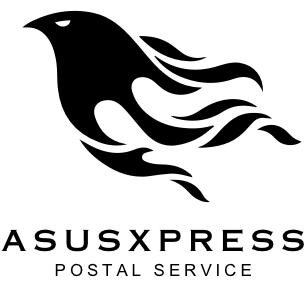
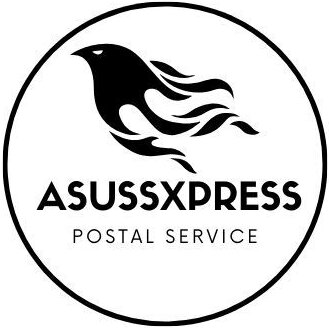
Changed Asus to Asuss and replaced images

diff --git a/resources/views/home.blade.php b/resources/views/home.blade.php
@@ -4,7 +4,7 @@
 <head>
     <!-- Meta Tag -->
     <meta charset="utf-8" />
-    <title>Welcome to AsusXpress</title>
+    <title>Welcome to AsussXpress</title>
     <meta name="description" content="" />
     <meta http-equiv="x-ua-compatible" content="ie=edge" />
     <meta name="viewport" content="width=device-width, initial-scale=1" />
@@ -88,7 +88,7 @@
                 </div>
                 <div class="contact-link">
                     <span class="d-block"> Email us:</span>
-                    <a href="mailto:support@AsusXpress.com"> support@AsusXpress.com</a>
+                    <a href="mailto:support@AsussXpress.com"> support@AsussXpress.com</a>
                 </div>
             </div>
             <div class="contact-box">
@@ -458,7 +458,7 @@
                             </div>
                             <div class="faq-text">
                                 <h6 class="title">Express Shipping</h6>
-                                <p>International Parcel and Document delivery from AsusXpress Express</p>
+                                <p>International Parcel and Document delivery from AsussXpress Express</p>
                             </div>
                         </div>
                     </div>
@@ -506,7 +506,7 @@
                                     <button class="accordion-button collapsed" type="button" data-bs-toggle="collapse"
                                         data-bs-target="#collapseThree" aria-expanded="false"
                                         aria-controls="collapseThree">
-                                        WHAT MODES AND SERVICES DOES AsusXpress PROVIDE?
+                                        WHAT MODES AND SERVICES DOES AsussXpress PROVIDE?
                                     </button>
                                 </h2>
                                 <div id="collapseThree" class="accordion-collapse collapse"
@@ -523,7 +523,7 @@
                                     <button class="accordion-button collapsed" type="button" data-bs-toggle="collapse"
                                         data-bs-target="#collapseFour" aria-expanded="false"
                                         aria-controls="collapseFour">
-                                        I AM A SMALL START-UP, CAN AsusXpress HELP ME?
+                                        I AM A SMALL START-UP, CAN AsussXpress HELP ME?
                                     </button>
                                 </h2>
                                 <div id="collapseFour" class="accordion-collapse collapse" aria-labelledby="headingFour"
@@ -545,7 +545,7 @@
                                 <div id="collapseFive" class="accordion-collapse collapse" aria-labelledby="headingFive"
                                     data-bs-parent="#accordionExample">
                                     <div class="accordion-body">
-                                        <strong>There are multiple ways in which AsusXpress clients can track a
+                                        <strong>There are multiple ways in which AsussXpress clients can track a
                                             shipment.
                                             1. Customers with a substantial amount of freight coming into their facility
                                             expect their logistics company to provide instant access to their product at
@@ -656,7 +656,7 @@
                             <a href="/"> <img src="assets/images/logo/logo.png" alt="Logo" /></a>
                         </div>
                         <p>
-                            AsusXpress is a global supplier of transport and logistics solutions. We have offices in more than 70
+                            AsussXpress is a global supplier of transport and logistics solutions. We have offices in more than 70
                             countries and an international network of partners and agents.
                         </p>
                         <div class="footer-contact-list d-flex align-items-center">
@@ -675,7 +675,7 @@
                                 </div>
                                 <div class="contact-link">
                                     <span class="sub-title"> Email</span>
-                                    <a href="mailto:support@AsusXpress.com"> support@AsusXpress.com</a>
+                                    <a href="mailto:support@AsussXpress.com"> support@AsussXpress.com</a>
                                 </div>
                             </div>
                         </div>
@@ -706,7 +706,7 @@
                         <div class="footer-copyright-area footer-copyright-three">
                             <div class="copyright-target">
                                 <p>
-                                    Copyright © 2023 <a href="/"> AsusXpress. </a> All Rights
+                                    Copyright © 2023 <a href="/"> AsussXpress. </a> All Rights
                                     Reserved.
                                 </p>
                             </div>

diff --git a/resources/views/about.blade.php b/resources/views/about.blade.php
@@ -37,7 +37,7 @@
                             <span class="sub-title active-shape"> Logistics Company</span>
                             <h2 class="title">About Our Corporation</h2>
                             <p class="desc">
-                                AsusXpress is a world leading provider of logistics, freight forwarding and supply
+                                AsussXpress is a world leading provider of logistics, freight forwarding and supply
                                 chain management services. Our focus is on simplifying complex supply chains, uncovering
                                 efficiency improvements that enable our customers to cut their inventories, reducing
                                 operating costs, and making significant short-term savings for long-term
@@ -225,7 +225,7 @@
                             </div>
                             <div class="faq-text">
                                 <h6 class="title">Express Shipping</h6>
-                                <p>International Parcel and Document delivery from AsusXpress Express</p>
+                                <p>International Parcel and Document delivery from AsussXpress Express</p>
                             </div>
                         </div>
                     </div>
@@ -273,7 +273,7 @@
                                     <button class="accordion-button collapsed" type="button" data-bs-toggle="collapse"
                                         data-bs-target="#collapseThree" aria-expanded="false"
                                         aria-controls="collapseThree">
-                                        WHAT MODES AND SERVICES DOES AsusXpress PROVIDE?
+                                        WHAT MODES AND SERVICES DOES AsussXpress PROVIDE?
                                     </button>
                                 </h2>
                                 <div id="collapseThree" class="accordion-collapse collapse"
@@ -290,7 +290,7 @@
                                     <button class="accordion-button collapsed" type="button" data-bs-toggle="collapse"
                                         data-bs-target="#collapseFour" aria-expanded="false"
                                         aria-controls="collapseFour">
-                                        I AM A SMALL START-UP, CAN AsusXpress HELP ME?
+                                        I AM A SMALL START-UP, CAN AsussXpress HELP ME?
                                     </button>
                                 </h2>
                                 <div id="collapseFour" class="accordion-collapse collapse" aria-labelledby="headingFour"
@@ -312,7 +312,7 @@
                                 <div id="collapseFive" class="accordion-collapse collapse" aria-labelledby="headingFive"
                                     data-bs-parent="#accordionExample">
                                     <div class="accordion-body">
-                                        <strong>There are multiple ways in which AsusXpress clients can track a
+                                        <strong>There are multiple ways in which AsussXpress clients can track a
                                             shipment.
                                             1. Customers with a substantial amount of freight coming into their facility
                                             expect their logistics company to provide instant access to their product at

diff --git a/resources/views/layouts/about.blade.php b/resources/views/layouts/about.blade.php
@@ -4,7 +4,7 @@
 <head>
     <!-- Meta Tag -->
     <meta charset="utf-8" />
-    <title>AsusXpress - @yield('title')</title>
+    <title>AsussXpress - @yield('title')</title>
     <meta name="description" content="" />
     <meta http-equiv="x-ua-compatible" content="ie=edge" />
     <meta name="viewport" content="width=device-width, initial-scale=1" />
@@ -82,7 +82,7 @@
                 </div>
                 <div class="contact-link">
                     <span class="d-block"> Email us:</span>
-                    <a href="mailto:support@AsusXpress.com"> support@AsusXpress.com</a>
+                    <a href="mailto:support@AsussXpress.com"> support@AsussXpress.com</a>
                 </div>
             </div>
             <div class="contact-box">
@@ -187,7 +187,7 @@
                         data-bg-image="assets/images/banner/footer-shape.png">
                         <a href="/"> <img height="80" src="assets/images/logo/logo.png" alt="Logo" /></a>
                         <p>
-                        AsusXpress is a global supplier of transport and logistics solutions. We have offices in more than 70 countries and an international network of partners and agents.
+                        AsussXpress is a global supplier of transport and logistics solutions. We have offices in more than 70 countries and an international network of partners and agents.
                         </p>
                     </div>
                 </div>
@@ -229,7 +229,7 @@
                                     </li> -->
                                     <li>
                                         <i class="flaticon-email-2"></i>
-                                        <a href="mailto:support@AsusXpress.com"> support@AsusXpress.com</a>
+                                        <a href="mailto:support@AsussXpress.com"> support@AsussXpress.com</a>
                                     </li>
                                 </ul>
                             </div>
@@ -245,7 +245,7 @@
                         <div class="footer-copyright-area">
                             <div class="copyright-target">
                                 <p>
-                                    Copyright © 2023 <a href="/"> AsusXpress. </a> All Rights
+                                    Copyright © 2023 <a href="/"> AsussXpress. </a> All Rights
                                     Reserved.
                                 </p>
                             </div>

diff --git a/resources/views/ocean-freight.blade.php b/resources/views/ocean-freight.blade.php
@@ -47,8 +47,8 @@
                                     Ocean Freight Forwarding</a>
                             </h3>
                             <p>
-                                AsusXpress is uniquely positioned for offering a complete and competitive FCL and LCL
-                                product. AsusXpress’s LCL services range from the coordination of single LCL shipments
+                                AsussXpress is uniquely positioned for offering a complete and competitive FCL and LCL
+                                product. AsussXpress’s LCL services range from the coordination of single LCL shipments
                                 all the way to multicountry consolidation. All LCL cargo is consolidated into FCL loads
                                 at one of our hubs and then shipped to destination, thus realising significant savings
                                 in transportation, administration, and handling costs and reducing transit times.
@@ -66,7 +66,7 @@
                                 <div class="check-list">
                                     <h3 class="title">GLOBAL FULL-CONTAINER-LOAD (FCL)</h3>
                                     <p>
-                                        AsusXpress FCL combines our long expertise in containerised freight with all
+                                        AsussXpress FCL combines our long expertise in containerised freight with all
                                         the services you need to establish a comprehensive door-to-door flow through
                                         just a single point of contact. Our carrier relationships and market activity
                                         enable us to offer highly competitive rates while our systems, expertise, and

diff --git a/resources/views/road-freight.blade.php b/resources/views/road-freight.blade.php
@@ -49,7 +49,7 @@
                             </h3>
                             <p>
                                 When goods have to be delivered to your customer's door, road freight is still
-                                indispensable. And will remain so in future. In recent years, AsusXpress has
+                                indispensable. And will remain so in future. In recent years, AsussXpress has
                                 expanded the options for European distribution by road freight by adding dozens of
                                 lanes. We make up our own daily schedules for packed product lines. This applies both to
                                 full and part truck loads.
@@ -65,7 +65,7 @@
                                 <div class="check-list">
                                     <h3 class="title">Transport Solutions</h3>
                                     <p>
-                                        AsusXpress is the number one logistics supply chain director with a
+                                        AsussXpress is the number one logistics supply chain director with a
                                         maritime character. In addition to overseas import, export and warehousing
                                         activities, we also handle the distribution of your goods to and from any
                                         destination in the World. For more than 20 years, our business locations

diff --git a/resources/views/layouts/admin.blade.php b/resources/views/layouts/admin.blade.php
@@ -4,7 +4,7 @@
     <!-- Required meta tags -->
     <meta charset="utf-8">
     <meta name="viewport" content="width=device-width, initial-scale=1, shrink-to-fit=no">
-    <title>AsusXpress Admin | @yield('title')</title>
+    <title>AsussXpress Admin | @yield('title')</title>
     <!-- plugins:css -->
     <link rel="stylesheet" href="../assets/admin/vendors/mdi/css/materialdesignicons.min.css">
     <link rel="stylesheet" href="../assets/admin/vendors/flag-icon-css/css/flag-icon.min.css">
@@ -73,8 +73,8 @@
           <footer class="footer">
             <div class="footer-inner-wraper">
               <div class="d-sm-flex justify-content-center justify-content-sm-between py-2">
-                <span class="text-muted text-center text-sm-left d-block d-sm-inline-block">Copyright © <a href="/">AsusXpress </a>2024</span>
-                <span class="float-none float-sm-right d-block mt-1 mt-sm-0 text-center"><a href="/admin"> AsusXpress </a> Admin</span>
+                <span class="text-muted text-center text-sm-left d-block d-sm-inline-block">Copyright © <a href="/">AsussXpress </a>2024</span>
+                <span class="float-none float-sm-right d-block mt-1 mt-sm-0 text-center"><a href="/admin"> AsussXpress </a> Admin</span>
               </div>
             </div>
           </footer>

diff --git a/resources/views/ware-housing-and-storage.blade.php b/resources/views/ware-housing-and-storage.blade.php
@@ -61,7 +61,7 @@
                                 <div class="check-list">
                                     <h3 class="title">Knowledge And Facilities</h3>
                                     <p>
-                                        AsusXpress’s scale enables us to take innovative and decisive action to develop
+                                        AsussXpress’s scale enables us to take innovative and decisive action to develop
                                         and implement the most suitable service portfolio for your organisation. For
                                         this purpose, we have an IT & logistical engineering department. Our warehouse
                                         processes focus on goods intakes, AEO-certified customs services, quality

diff --git a/resources/views/air-freight.blade.php b/resources/views/air-freight.blade.php
@@ -65,7 +65,7 @@
                                 <div class="check-list">
                                     <h3 class="title">GLOBAL EXPRESS SHIPPING</h3>
                                     <p>
-                                        On selected high volume trade lanes, AsusXpress operates a hub and gateway
+                                        On selected high volume trade lanes, AsussXpress operates a hub and gateway
                                         network, using our own controlled capacity through our in-house carrier. By
                                         careful selection of airports, and by using our own staff, we can ensure
                                         services that are frequent, cost-effective and highly reliable. We also offers

diff --git a/resources/views/contact.blade.php b/resources/views/contact.blade.php
@@ -50,7 +50,7 @@
                             </div>
                             <div class="contact-header">
                                 <span> Any Questions? Email us</span>
-                                <a href="mailto:support@asusxpress.com"> support@asusxpress.com</a>
+                                <a href="mailto:support@asussxpress.com"> support@asussxpress.com</a>
                             </div>
                         </div>
                     </div>
